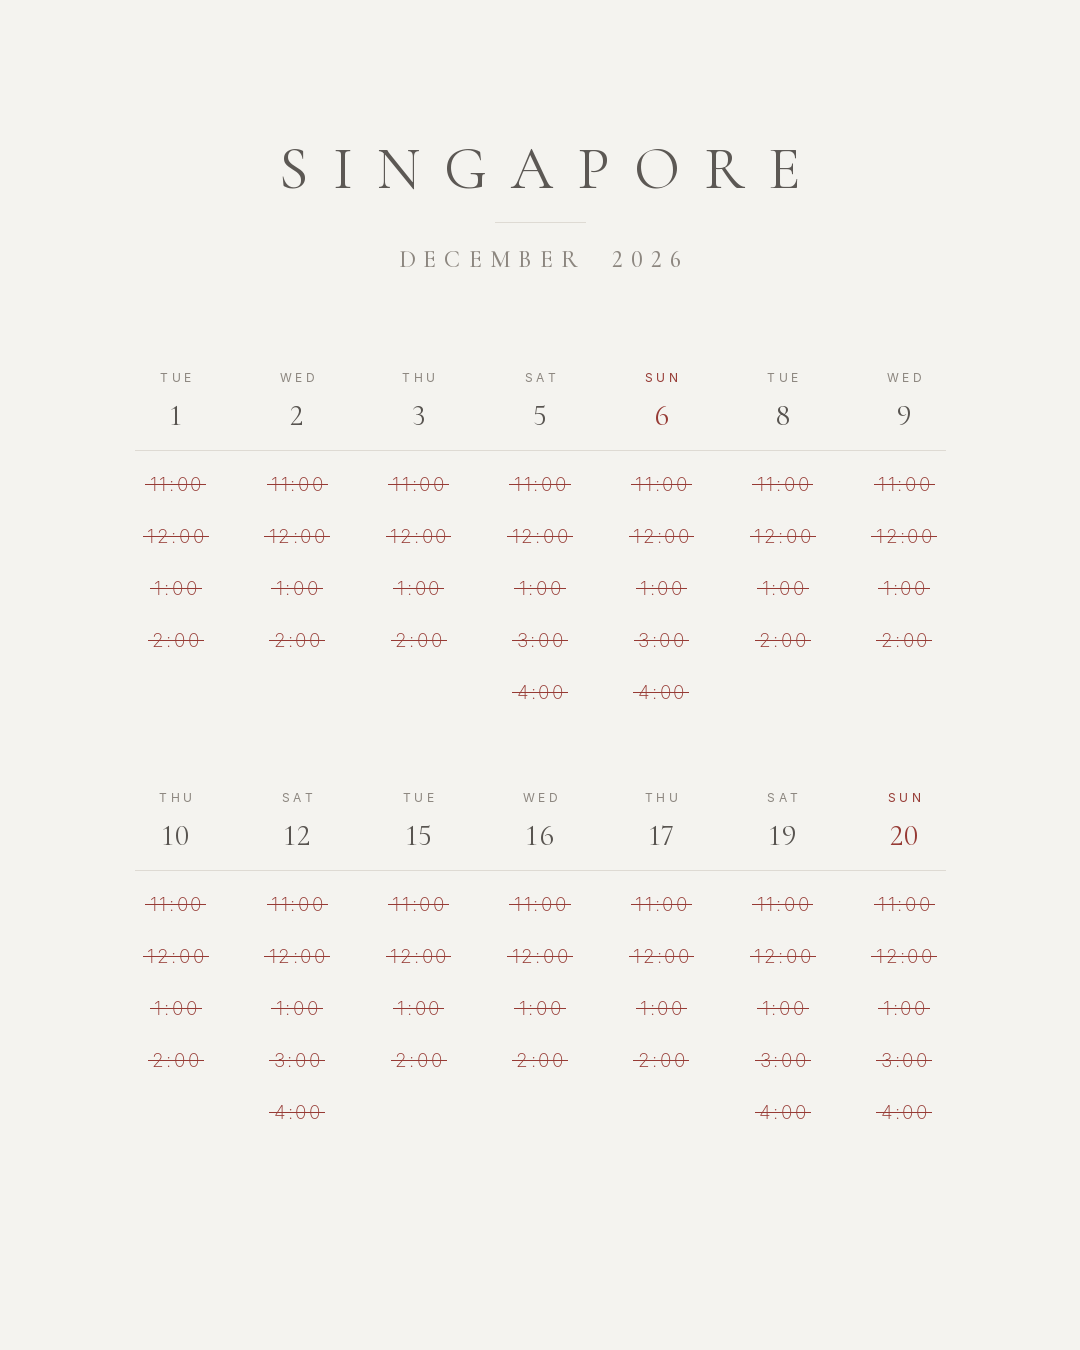
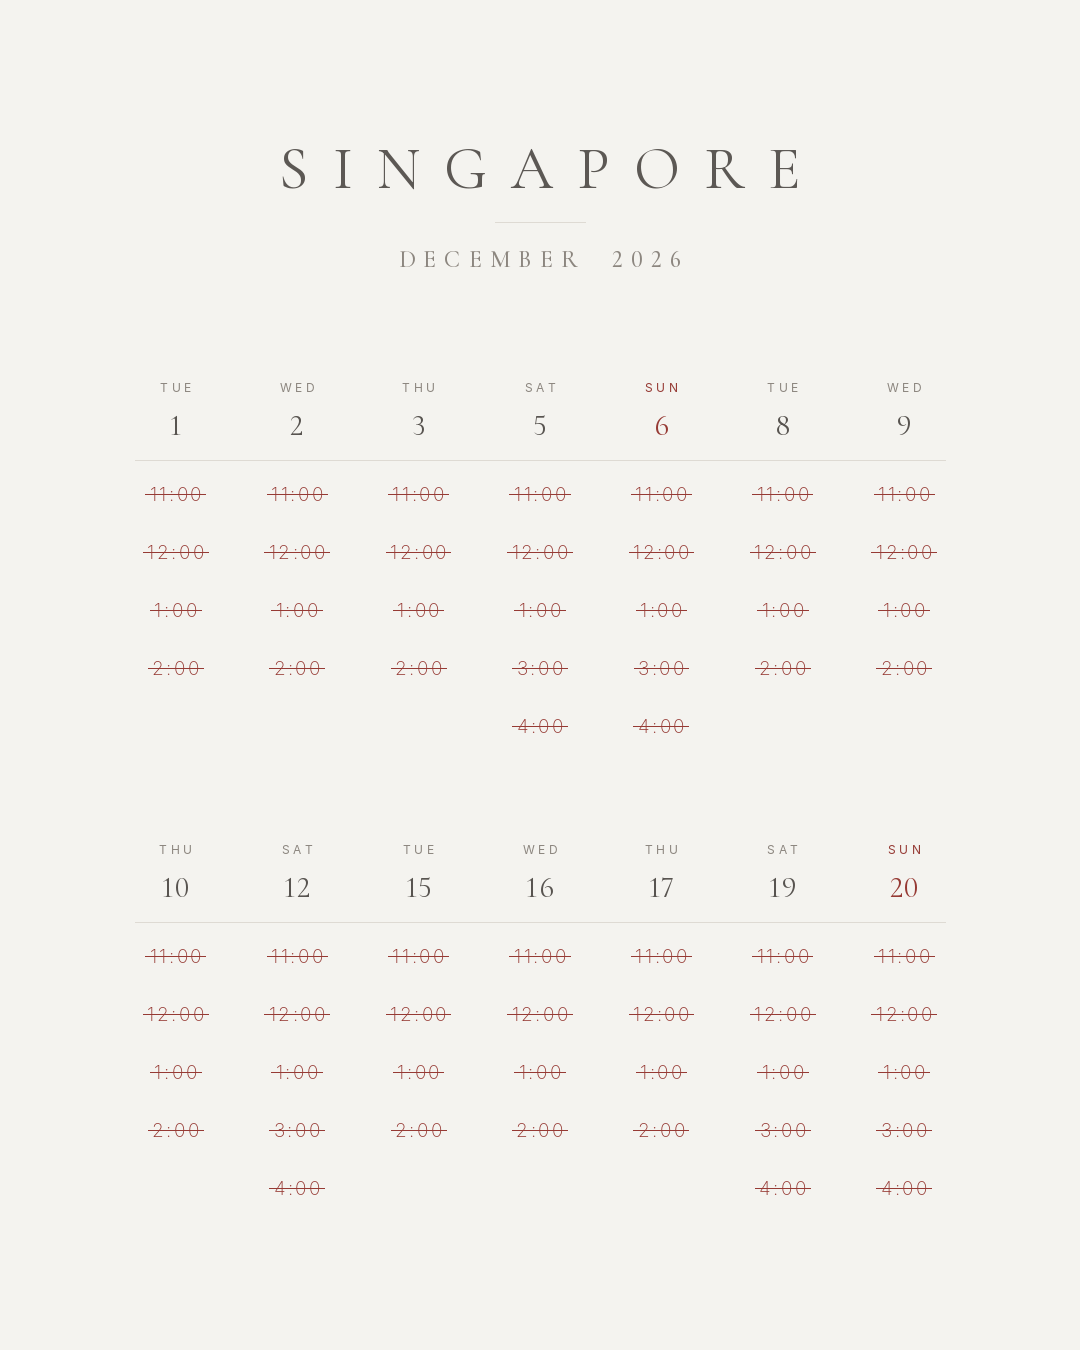
SG calendar: more vertical room in the one-page design
Claude-Session: https://claude.ai/code/session_01AUYtHFhSQtXqmN6bYTTrod

diff --git a/scripts/sg_calendar/month_master.py b/scripts/sg_calendar/month_master.py
@@ -35,7 +35,7 @@ BG = (244, 243, 239)
 INK, SOFT, RULE = (92, 88, 84), (140, 134, 127), (222, 218, 211)
 RED = (150, 58, 52)            # booked slots and Sundays
 DATE, TIME = (88, 84, 80), (60, 57, 54)
-LEFT, RIGHT, TOP, BLOCK_GAP, STEP, ROWS_PER_BLOCK = 115, 965, 370, 58, 52, 5
+LEFT, RIGHT, TOP, BLOCK_GAP, STEP, ROWS_PER_BLOCK = 115, 965, 380, 70, 58, 5
 
 
 def cormorant(size, weight):
